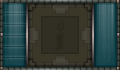
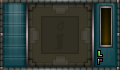
Updated HUD graphics with new image

Changed region(s): [[0.825, 0.0571, 0.95, 0.6857], [0.8, 0.7143, 0.875, 0.9429]]

diff --git a/src/ArroGraphics.java b/src/ArroGraphics.java
@@ -332,12 +332,12 @@ public class ArroGraphics {
 							 multiplyer(1080), 0, 0, 120, 70, null);
 			if (i < players.size()) {
 				g.drawImage(HUD_pts, multiplyer(i * 480 + 23), multiplyer(812), multiplyer(i * 480 + 64), multiplyer(1072), 0, 0, 13, 65, null);
-				drawCustomNumbers(g, players.get(i).perseverance, multiplyer(i * 480 + 72), multiplyer(812), multiplyer(40), multiplyer(20));
-				drawCustomNumbers(g, players.get(i).observation, multiplyer(i * 480 + 72), multiplyer(856), multiplyer(40), multiplyer(20));
-				drawCustomNumbers(g, players.get(i).intellect, multiplyer(i * 480 + 72), multiplyer(900), multiplyer(40), multiplyer(20));
-				drawCustomNumbers(g, players.get(i).negotiation, multiplyer(i * 480 + 72), multiplyer(944), multiplyer(40), multiplyer(20));
-				drawCustomNumbers(g, players.get(i).tact, multiplyer(i * 480 + 72), multiplyer(988), multiplyer(40), multiplyer(20));
-				drawCustomNumbers(g, players.get(i).strength, multiplyer(i * 480 + 72), multiplyer(1032), multiplyer(40), multiplyer(20));
+				drawCustomNumbers(g, players.get(i).perseverance, multiplyer(i * 480 + 72), multiplyer(812), multiplyer(36), multiplyer(20));
+				drawCustomNumbers(g, players.get(i).observation, multiplyer(i * 480 + 72), multiplyer(856), multiplyer(36), multiplyer(20));
+				drawCustomNumbers(g, players.get(i).intellect, multiplyer(i * 480 + 72), multiplyer(900), multiplyer(36), multiplyer(20));
+				drawCustomNumbers(g, players.get(i).negotiation, multiplyer(i * 480 + 72), multiplyer(944), multiplyer(36), multiplyer(20));
+				drawCustomNumbers(g, players.get(i).tact, multiplyer(i * 480 + 72), multiplyer(988), multiplyer(36), multiplyer(20));
+				drawCustomNumbers(g, players.get(i).strength, multiplyer(i * 480 + 72), multiplyer(1032), multiplyer(36), multiplyer(20));
 				//draw portrait
 				g.drawImage(portraits, 
 					multiplyer(i * 480 + 112),
@@ -349,10 +349,10 @@ public class ArroGraphics {
 					(players.get(i).getType() + 1) * 64,
 					64, null);
 				g.setColor(gold);
-				int top = (int) (960 - 136 * ((1. * players.get(i).getHealth() / players.get(i).getMaxHealth())));
-				g.fillRect(multiplyer(i * 480 + 404), multiplyer(top), multiplyer(36), multiplyer(960-top));
-				drawCustomNumbers(g, players.get(i).getLevel(), multiplyer(i * 480 + 420), multiplyer(968), multiplyer(40), multiplyer(20));
-				drawCustomNumbers(g, players.get(i).getInsignias(), multiplyer(i * 480 + 420), multiplyer(1010), multiplyer(40), multiplyer(20));
+				int top = (int) (980 - 148 * ((1. * players.get(i).getHealth() / players.get(i).getMaxHealth())));
+				g.fillRect(multiplyer(i * 480 + 404), multiplyer(top), multiplyer(40), multiplyer(980-top));
+				drawCustomNumbers(g, players.get(i).getLevel(), multiplyer(i * 480 + 420), multiplyer(992), multiplyer(36), multiplyer(20));
+				drawCustomNumbers(g, players.get(i).getInsignias(), multiplyer(i * 480 + 420), multiplyer(1032), multiplyer(36), multiplyer(20));
 				//g.drawImage(HUD_stats, multiplyer(i * 480 + 380), multiplyer(868), multiplyer(i * 480 + 416), multiplyer(1000), 0, 0, 9, 33, null);
 				}
 		}
